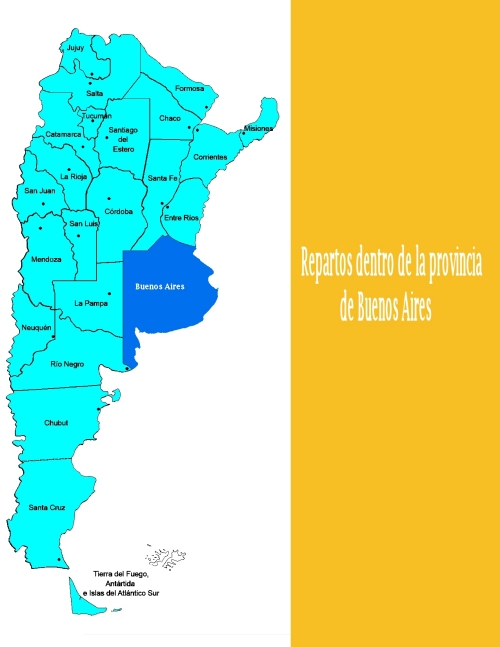
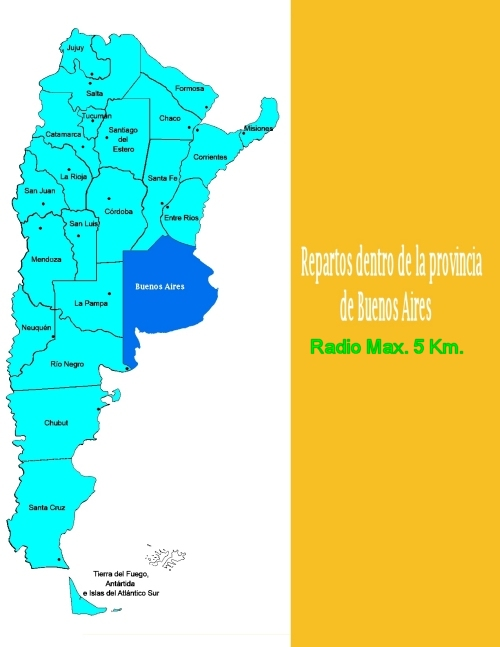
radio despacho

Changed region(s): [[0.6, 0.5255, 0.93, 0.5564]]

diff --git a/src/app/todo/envio/envio.component.html b/src/app/todo/envio/envio.component.html
@@ -1,5 +1,5 @@
 <div class="col-md-12 text-center">
-    <h4 style="color: #a4b4e4;">Cargos de envío en la República Argentina</h4>
-    <img src="/assets/images/MapaEnvio500x600.jpg" alt="">
+    <h4 style="color: #a4b4e4;">Cargos de envío en la República Argentina (gratis dentro del radio señalado)</h4>
+    <img src="/assets/images/entregas.jpg" alt="">
 </div>
 <app-foot></app-foot>
